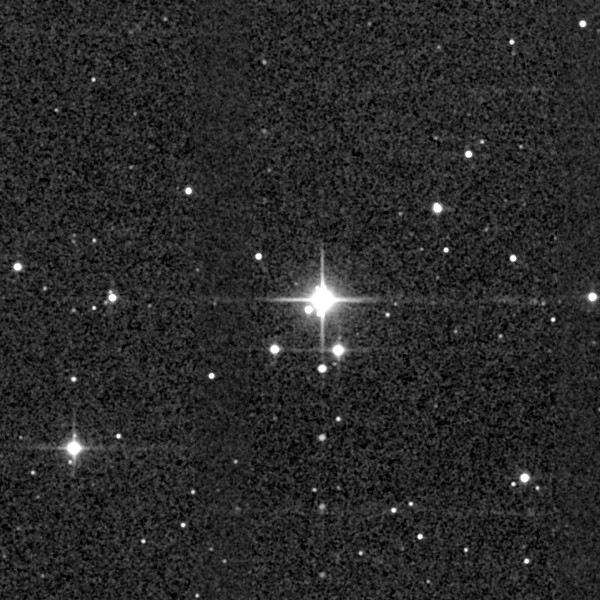
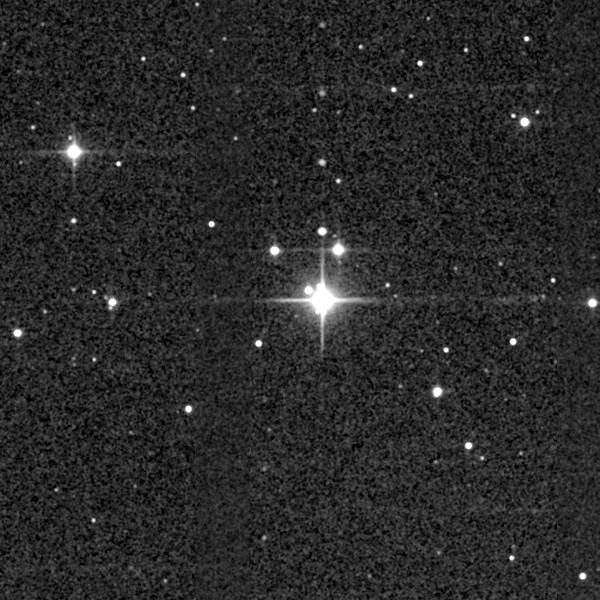
Reference images: fix orientation, mosaic tiles, name the telescope

Changed region(s): [[0.0, 0.0, 1.0, 1.0]]

diff --git a/index.html b/index.html
@@ -242,7 +242,9 @@
     #browseTab .section { display: flex; flex-direction: column; flex: 1; min-height: 0; margin-bottom: 0; }
     #browseTab .section > * { flex: 0 0 auto; }
     #browseTab #fieldList { flex: 0 1 auto; min-height: 0; }
-    #browseTab #refCard { flex: 1 1 0; min-height: 190px; display: flex; flex-direction: column; margin-top: 10px; }
+    /* min-height is left at auto (= title + 120 px image area + caption + credit), so a long caption
+       is never squeezed: the field list shrinks first, then the image, down to its 120 px minimum */
+    #browseTab #refCard { flex: 1 1 0; display: flex; flex-direction: column; margin-top: 10px; }
     #refCard h3 { margin: 0 0 6px; font-size: 13px; }
     /* the image area is a size container so the square image can be sized to whichever of
        width/height is smaller, so it fills the space and the border hugs the picture */
@@ -893,9 +895,12 @@
       card.style.display = r ? 'flex' : 'none';
       if (!r) return;
       document.getElementById('refImg').src = r.file;
+      // ref.json's survey is e.g. "2MASS K-band"; the caption wants just "K-band"
+      const band = r.survey.replace(/^2MASS\s+/, '');
       document.getElementById('refCaption').textContent =
-        `${r.survey} image of this field for comparison, from NASA/IPAC IRSA. Different telescope, different resolution; ` +
-        `bright stars should line up with the ones in the SPHEREx frames.`;
+        `${band} image of this field from 2MASS (Two Micron All Sky Survey), taken by ground-based 1.3 m ` +
+        `telescopes in Arizona (USA) and Chile. SPHEREx is a space telescope, so the two see this patch ` +
+        `differently: 2MASS shows finer detail, SPHEREx covers many more colours. Bright stars should line up in both.`;
       document.getElementById('refCredit').textContent = r.credit;
     }
 

diff --git a/prep/fetch_reference.py b/prep/fetch_reference.py
@@ -16,6 +16,7 @@ from astropy import units as u
 from astropy.coordinates import SkyCoord
 from astropy.io import fits
 from reproject import reproject_interp
+from reproject.mosaicking import reproject_and_coadd
 from astropy.wcs import WCS
 
 SIZE_DEG = 0.2   # same sky area as the SPHEREx field images (the "0p2" folders)
@@ -32,19 +33,21 @@ def tile_urls(ra, dec, letter):
 
 
 def mosaic(urls, ra, dec):
-    """The field usually straddles tile edges, so reproject every overlapping tile onto one
-    shared north-up 600 px grid (same idea as the SPHEREx frames) and average where they overlap."""
+    """Same grid as the SPHEREx frames (build_target_wcs in test_one.py: TAN, north up, centred on the
+    field, covering SIZE_DEG) but 600 px across instead of 128, so 2MASS detail is kept.
+    The field usually straddles tile edges, so all overlapping tiles are mosaicked (with their
+    background levels matched) and reprojected in one go."""
     w = WCS(naxis=2)
-    w.wcs.ctype = ["RA---TAN", "DEC--TAN"]
-    w.wcs.crval = [ra, dec]
     w.wcs.crpix = [NPIX / 2 + 0.5, NPIX / 2 + 0.5]
-    w.wcs.cdelt = [-SIZE_DEG / NPIX, SIZE_DEG / NPIX]   # north up, east left
-    layers = []
+    w.wcs.cdelt = [-SIZE_DEG / NPIX, SIZE_DEG / NPIX]
+    w.wcs.crval = [ra, dec]
+    w.wcs.ctype = ["RA---TAN", "DEC--TAN"]
+    tiles = []
     for url in urls:
         hdu = fits.open(io.BytesIO(requests.get(url, timeout=120).content))[0]
-        layer = reproject_interp((hdu.data, WCS(hdu.header)), w, shape_out=(NPIX, NPIX), return_footprint=False)
-        layers.append(layer - np.nanmedian(layer))   # each tile has its own background level; remove it so seams vanish
-    out = np.nanmean(layers, axis=0)
+        tiles.append((hdu.data, WCS(hdu.header)))
+    out, _ = reproject_and_coadd(tiles, w, shape_out=(NPIX, NPIX), reproject_function=reproject_interp,
+                                 match_background=True)
     if np.isnan(out).mean() > 0.02:
         raise ValueError("tiles do not cover the whole field")
     return out
@@ -55,6 +58,7 @@ def to_jpg(data, path):
     lo, hi = np.percentile(data, [1, 99.7])          # clip the dark sky and the brightest stars
     x = np.clip((data - lo) / (hi - lo), 0, 1)
     x = np.arcsinh(10 * x) / np.arcsinh(10)          # arcsinh stretch: faint stuff visible, stars not blown out
+    x = np.flipud(x)                                 # array row 0 is south; image row 0 must be north (same flip as test_one.py)
     Image.fromarray((x * 255).astype(np.uint8)).save(path, quality=90)
 
 
